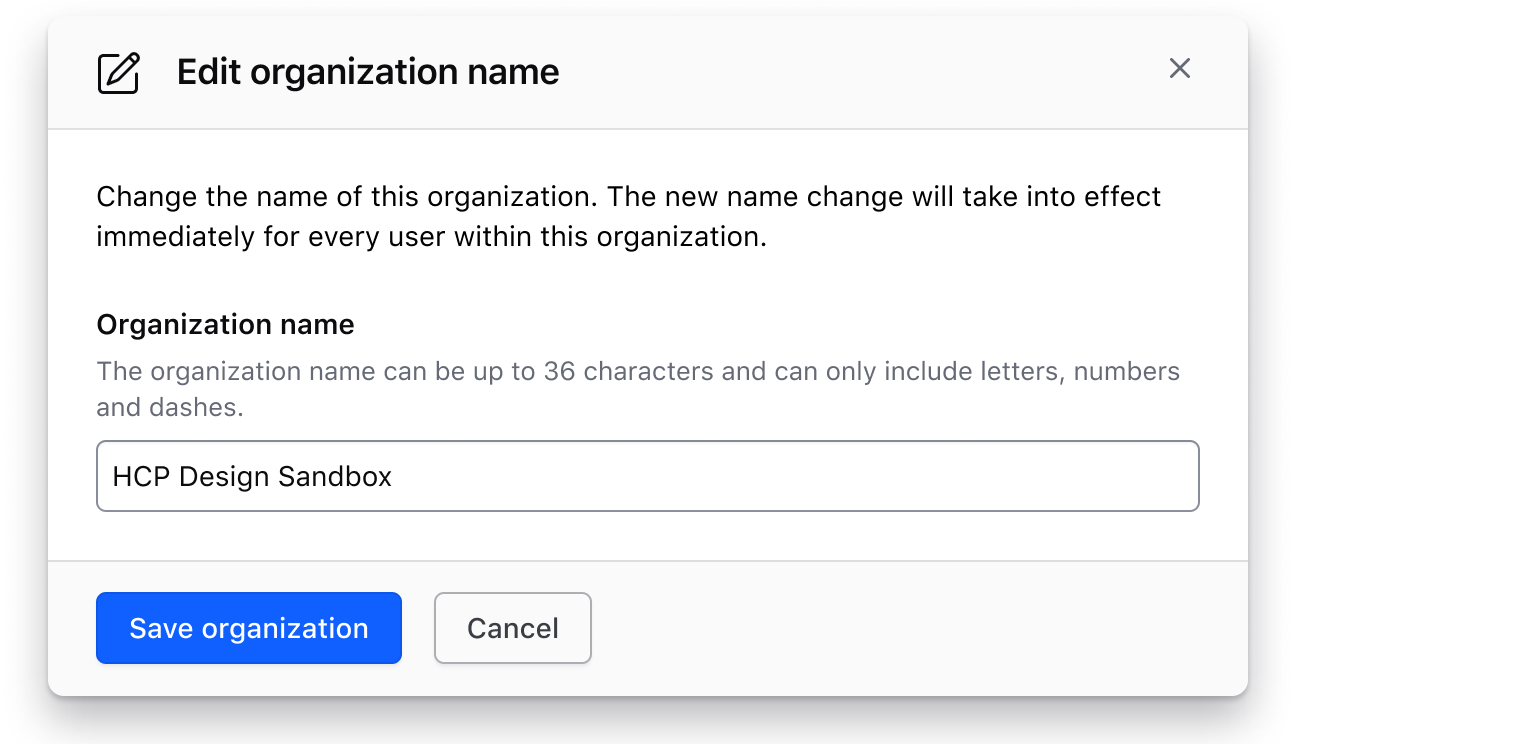
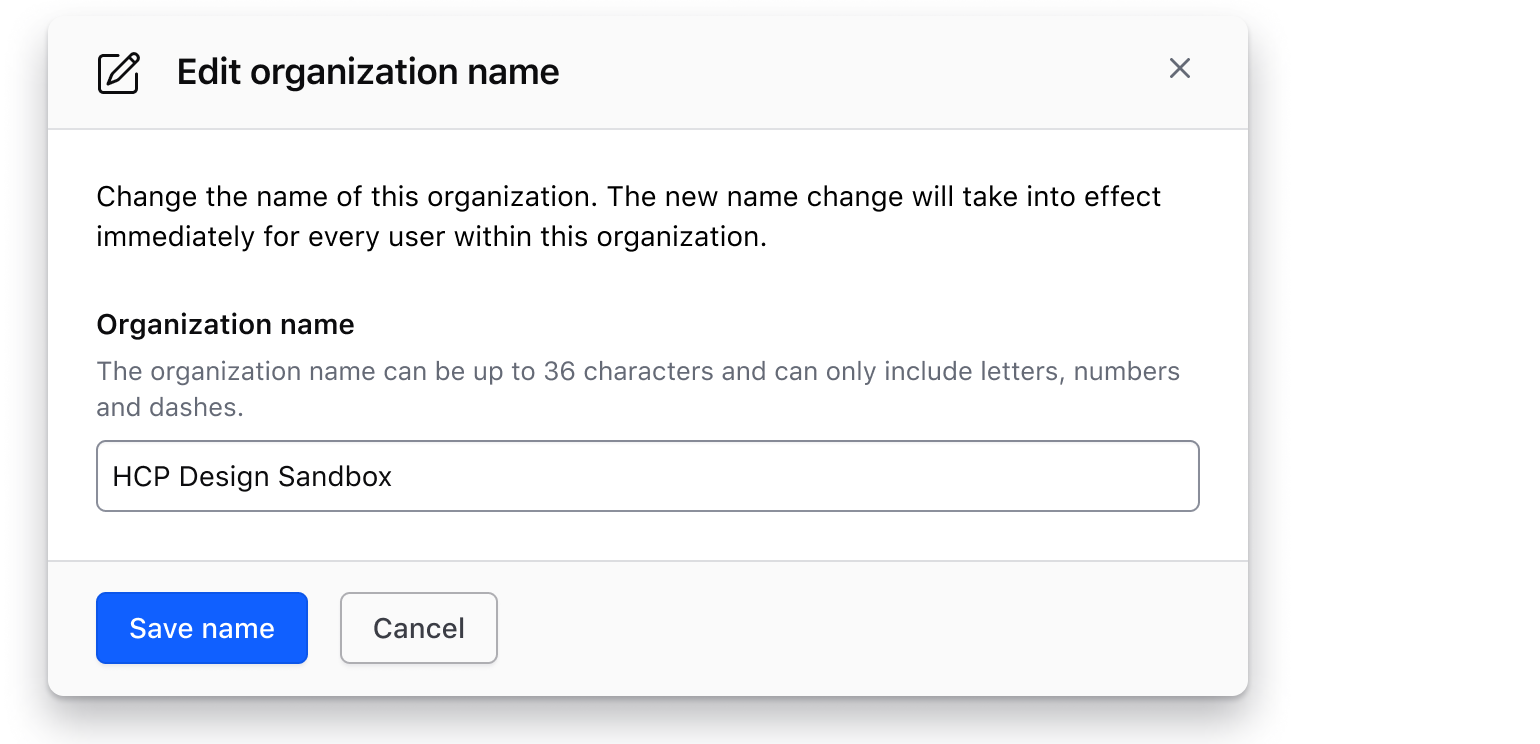
Updated two docs to reflect consumer feedback

Changed region(s): [[0.1247, 0.7728, 0.374, 0.8965]]

diff --git a/website/docs/content/writing-guidelines/index.md b/website/docs/content/writing-guidelines/index.md
@@ -21,7 +21,7 @@ These formatting options are available in the [Time](/components/time) component
 
 ### Relative dates
 
-Relative dates work well for periods from one minute up to one week. For added accuracy, a [Tooltip](/components/tooltip) can display the exact timestamp, including seconds and the local timezone, e.g., "Sep 5, 2018, 4:07:32 PM PST". This helps users who need precise information without manually converting from UTC.
+Relative dates work well for periods from one minute up to one week. For added accuracy, a [Tooltip](/components/tooltip) can display the exact timestamp, including seconds and the local timezone, e.g., "Sep 5, 2018, 4:07:32 PM EST". This helps users who need precise information without manually converting from a relative date.
 
 ![A relative date displayed as "5 days ago" with the full date shown in a tooltip in the friendly local format "Sep 5, 2018, 4:07:32 PM EST".](/assets/content/writing-guidelines/writing-guidelines-relative-dates-with-tooltip.png)
 

diff --git a/website/docs/content/writing-style/index.md b/website/docs/content/writing-style/index.md
@@ -234,7 +234,7 @@ When editing an object, use "Save" for the action label. When applying another a
 
 !!! Do
 
-![A modal that has a form to edit an organization. The title is "Edit organization name" and the save button is "Save organization".](/assets/content/writing-style/writing-style-consistent-termonology-CTA-save-do.png)
+![A modal that has a form to edit an organization. The title is "Edit organization name" and the save button is "Save name".](/assets/content/writing-style/writing-style-consistent-termonology-CTA-save-do.png)
 
 ![A form to invite users by inputting their emails. The title is "Invite users" and the submit button is "Invite users".](/assets/content/writing-style/writing-style-consistent-termonology-CTA-invite-do.png)
 
